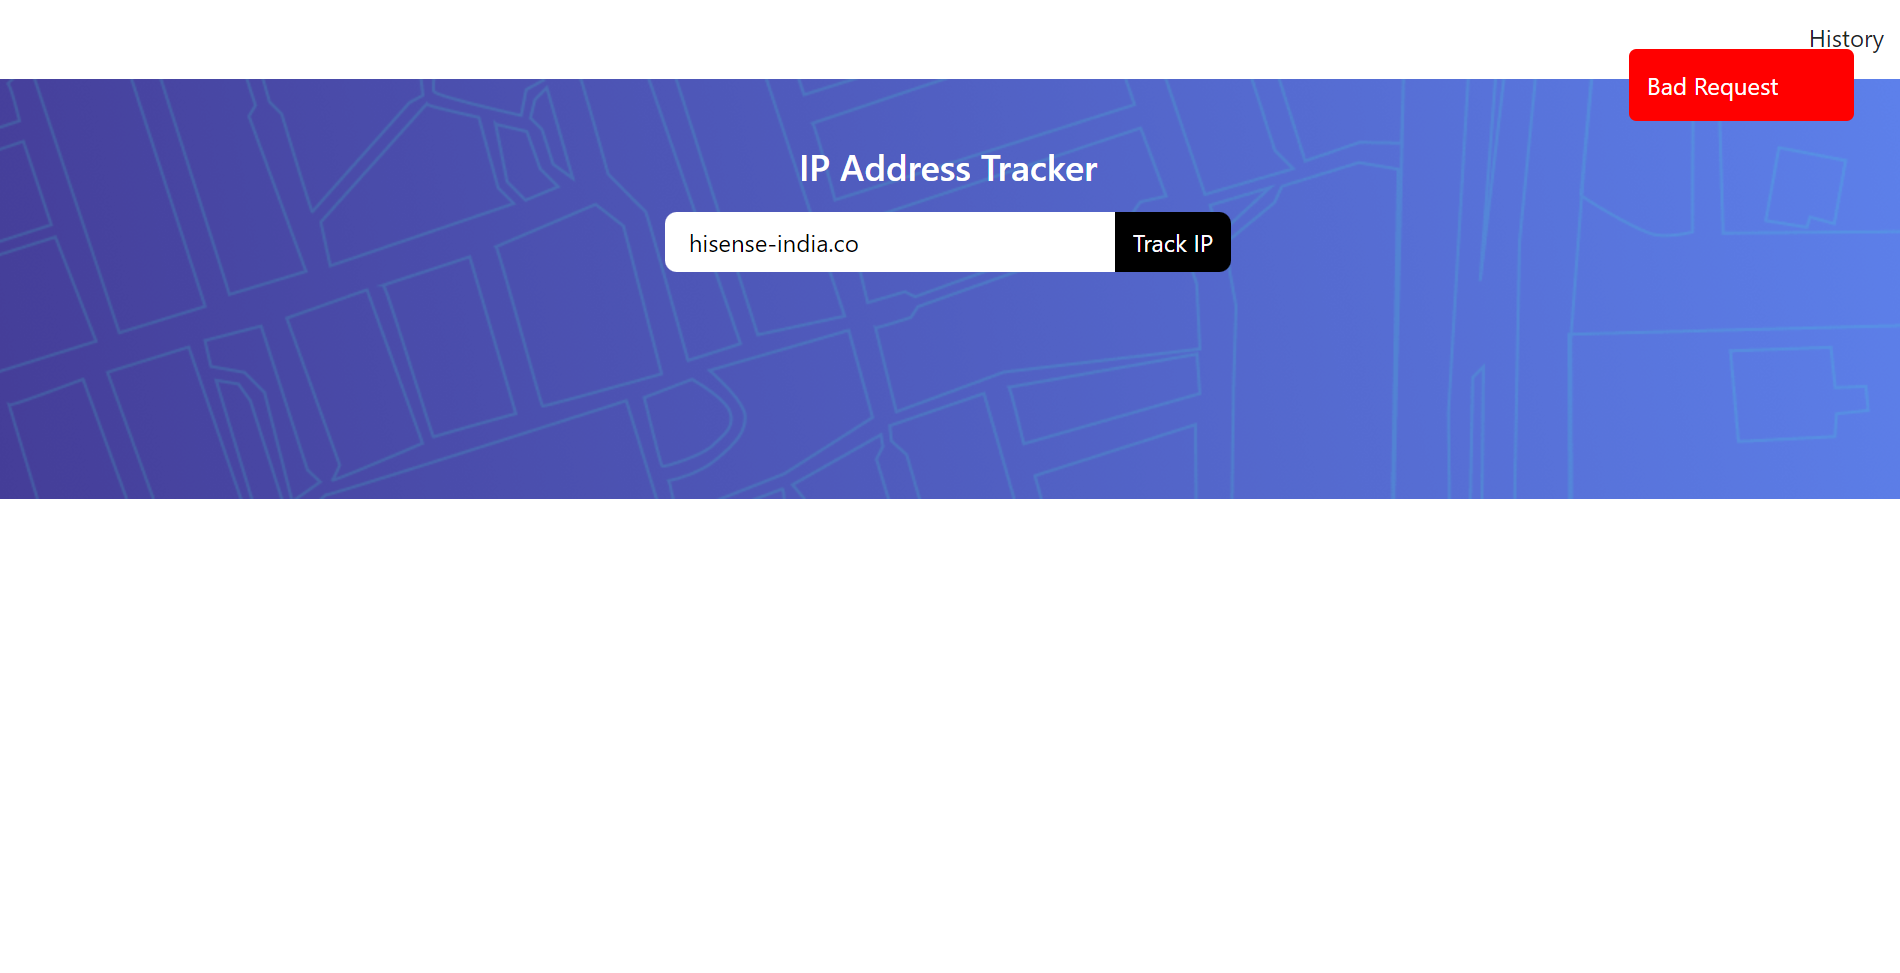
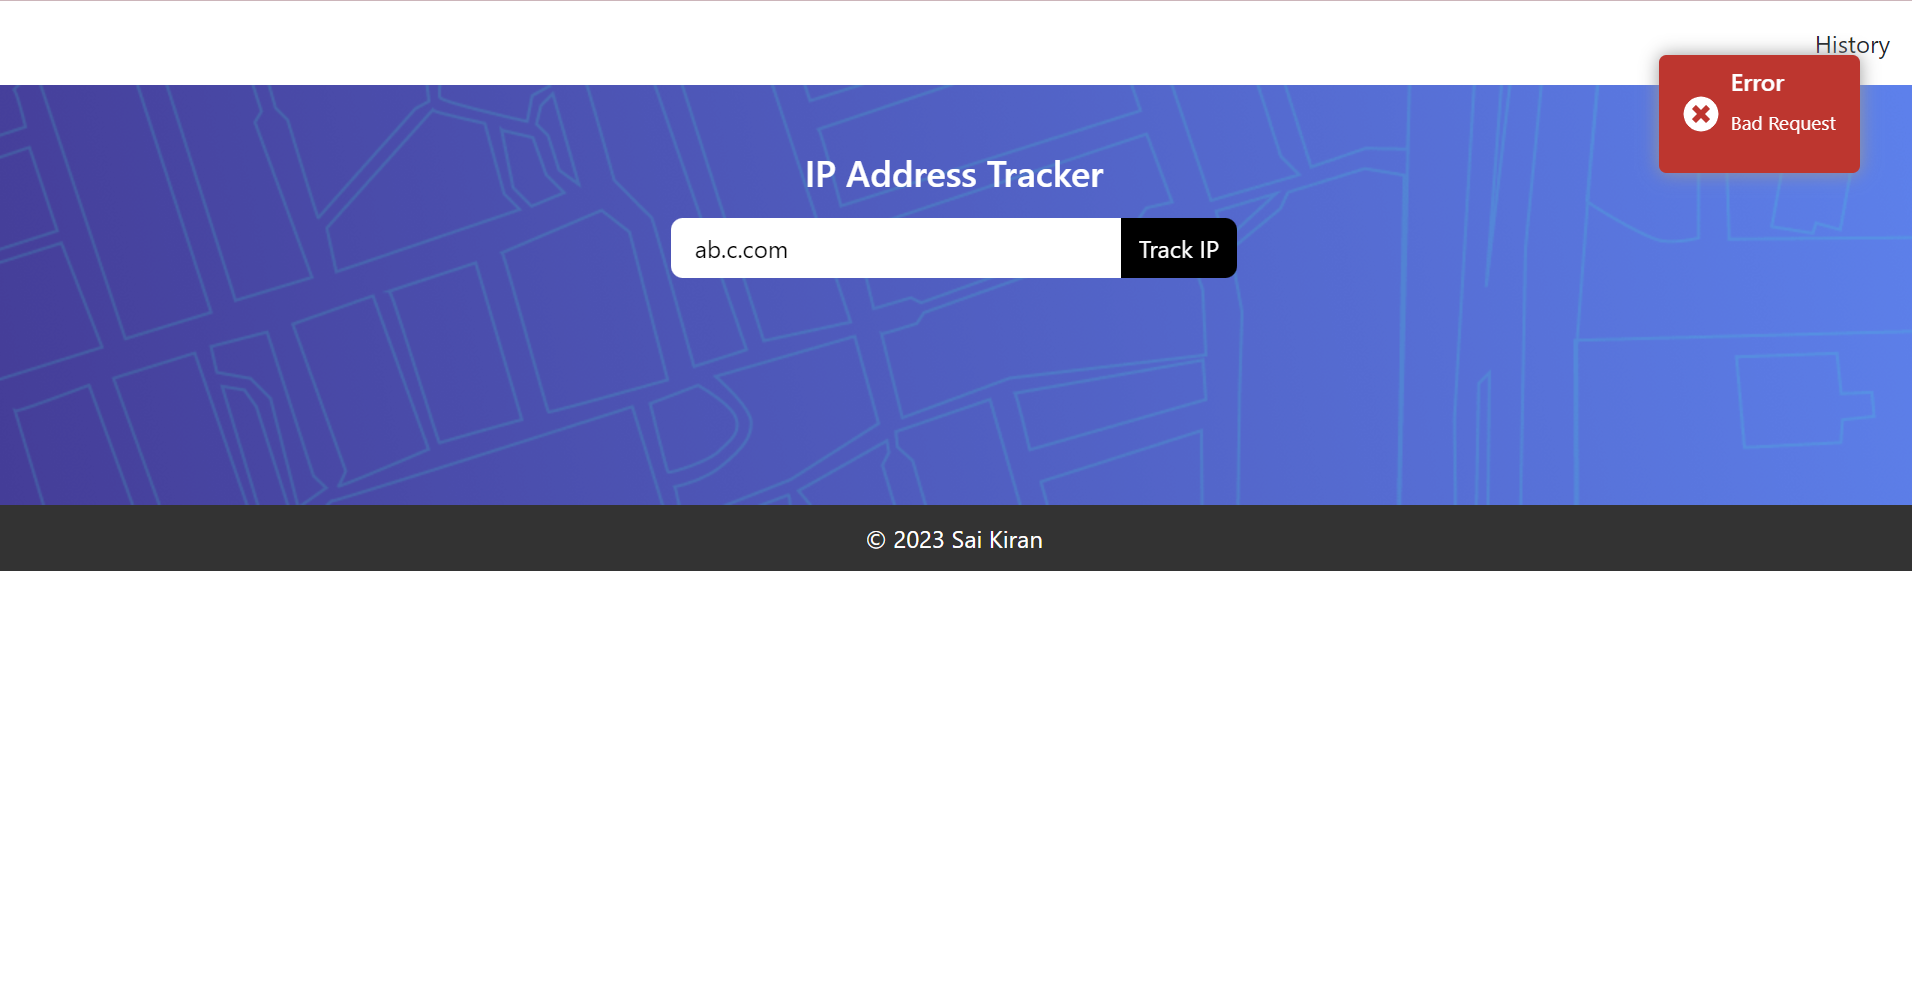
improvements

diff --git a/styles.css b/styles.css
@@ -140,6 +140,10 @@ button.close {
     background: none;
 }
 
+.toast-close {
+    background-image: url(./assets/close.svg);
+}
+
 .f-24 {
     font-size: 24px;
 }
@@ -150,27 +154,45 @@ button.close {
 
 .history-modal-body {
     display: flex;
-    flex-direction: column;
+    flex-wrap: wrap;
     gap: 8px;
     padding: 16px;
-    align-items: flex-start;
+    align-items: center;
+    justify-content: center;
 }
 
 /* Add some basic styling for the toast container */
-#toast-container .toaster {
+#toaster-container {
     position: fixed;
     top: 36px;
     right: 36px;
-    color: #fff;
-    padding: 10px;
+    background: #bd362f;
     border-radius: 5px;
-    min-width: 150px;
+    padding: 8px 16px;
+    color: #fff;
+    display: flex;
+    align-items: center;
+    gap: 8px;
+    box-shadow: 0 0 12px #999;
+    transition: opacity 1s ease-in-out;
+    opacity: 0;
 }
 
-#toast-container .toaster.error {
-    background-color: red;
-    color: white;
+#toaster-container h2{
+    font-size: 1rem;
 }
+#toaster-container p{
+    font-size: 0.8rem;
+}
+#toaster-container .toaster-icon{
+    background-image: url(./assets/close.svg);
+    background-size: cover;
+    background-repeat: no-repeat;
+    width: 24px;
+    height: 24px;
+}
+
+
 
 footer {
     background-color: #333;
@@ -178,6 +200,47 @@ footer {
     text-align: center;
     padding: 10px;
     width: 100%;
+}
+
+
+.card {
+    background-color: #fff;
+    border-radius: 8px;
+    box-shadow: 0 4px 8px rgba(0, 0, 0, 0.1);
+    overflow: hidden;
+    width: 300px;
+}
+
+.card-content {
+    padding: 20px;
+}
+
+.card-title {
+    font-size: 1.5rem;
+    margin-bottom: 10px;
+    color: #333;
+}
+
+.card-description {
+    font-size: 1rem;
+    color: #666;
+}
+
+.card-link {
+    display: block;
+    margin-top: 15px;
+    padding: 10px;
+    text-align: center;
+    background-color: #3498db;
+    color: #fff;
+    text-decoration: none;
+    border-radius: 4px;
+    transition: background-color 0.3s ease;
+    cursor: pointer;
+}
+
+.card-link:hover {
+    background-color: #2980b9;
 }
 
 @media screen and (max-width: 768px) {

diff --git a/scripts/dom.js b/scripts/dom.js
@@ -12,11 +12,12 @@ const loaderOverlay = document.querySelector('#loader-overlay');
 submitBtn.addEventListener('click', (event) => {
     event.preventDefault();
     inputEleDom.value = inputEleDom.value.trim()
-    const value = inputEleDom.value;
+    let value = inputEleDom.value;
     inputEleDom.classList.remove('error');
     if (ipRegex.test(value)) {
         fetchIpData(`ipAddress=${value}`, value);
     } else if (domainRegex.test(value)) {
+        value = value.replace(/^https?:\/\//, '');
         fetchIpData(`domain=${value}`, value);
     } else {
         validationResult.textContent = "Please enter a valid IP address or domain.";
@@ -34,17 +35,33 @@ historyLinkRef.addEventListener('click', (event) => {
 
     if (historyData && historyData.length) {
         historyData.forEach((obj) => {
+            const cardCt = document.createElement('div');
+            cardCt.classList.add('card');
+
+            const cardContent = document.createElement('div');
+            cardCt.classList.add('card-content');
+
+            cardCt.appendChild(cardContent);
+
+            const cardDesc = document.createElement('div');
+            cardCt.classList.add('card-description');
+
+            cardContent.appendChild(cardDesc);
+
             const historyLink = document.createElement('a');
-            historyLink.classList.add('history-link');
+            historyLink.classList.add('card-link');
+            cardContent.appendChild(historyLink);
+
             const [key, value] = Object.entries(obj)[0];
-            historyLink.textContent = key;
+            cardDesc.textContent = key;
+            historyLink.textContent = 'Get Current IP details';
             historyLink.setAttribute('data-dismiss', 'modal')
             historyLink.addEventListener('click', (event) => {
                 inputEleDom.value = key;
                 inputEleDom.dispatchEvent(new Event('input'));
                 submitBtn.click();
             })
-            historyModalBodyRef.appendChild(historyLink);
+            historyModalBodyRef.appendChild(cardCt);
         })
     }
 })

diff --git a/index.html b/index.html
@@ -58,7 +58,7 @@
         <!-- Modal -->
         <div class="modal fade" id="HistoryModal" tabindex="-1" role="dialog" aria-labelledby="HistoruModalLabel"
             aria-hidden="true">
-            <div class="modal-dialog" role="document">
+            <div class="modal-dialog modal-lg" role="document">
                 <div class="modal-content">
                     <div class="modal-header">
                         <h5 class="modal-title" id="HistoruModalLabel">History</h5>
@@ -67,7 +67,6 @@
                         </button>
                     </div>
                     <div class="history-modal-body" id="history-modal-body">
-
                     </div>
                     <div class="modal-footer">
                         <button type="button" class="btn btn-secondary" data-dismiss="modal">Close</button>
@@ -77,7 +76,14 @@
         </div>
 
         <!-- The toast container -->
-        <div id="toast-container"></div>
+        <!-- <div id="toast-container"></div> -->
+        <div id="toaster-container">
+            <div class="toaster-icon"></div>
+            <div class="toaster-content">
+                <h2 id="toaster-heading" class="toaster-heading"></h2>
+                <p id="toaster-message" class="toaster-message"></p>
+            </div>
+        </div>
     </main>
     <footer>
         <div>&copy; 2023 Sai Kiran</div>

diff --git a/scripts/helper-function.js b/scripts/helper-function.js
@@ -67,24 +67,19 @@ function renderMap(latLng) {
 
 function showToast(text, className) {
     // Get the toast container
-    let toastContainer = document.getElementById('toast-container');
+    let toastContainer = document.getElementById('toaster-container');
+    let toastHeading = document.getElementById('toaster-heading');
+    let toastMessage = document.getElementById('toaster-message');
 
-    // Create a new toast element
-    let toast = document.createElement('div');
-    toast.className = `toaster  ${className}`;
-    toast.textContent = text;
-
-    // Append the toast to the container
-    toastContainer.appendChild(toast);
+    toastHeading.textContent = 'Error';
+    toastMessage.textContent = text;
 
     // Display the toast
-    toastContainer.style.display = 'block';
+    toastContainer.style.opacity = '1';
 
     // Hide the toast after a delay (e.g., 3 seconds)
     setTimeout(function () {
-        toastContainer.style.display = 'none';
-        // Remove the toast element from the container
-        toastContainer.removeChild(toast);
+        toastContainer.style.opacity = '0';
     }, 3000);
 }
 

diff --git a/scripts/constants.js b/scripts/constants.js
@@ -1,4 +1,4 @@
 const ipRegex = /^(\d{1,3}\.){3}\d{1,3}$/;
-const domainRegex = /^[a-zA-Z0-9.-]+\.[a-zA-Z]{2,}$/;
+const domainRegex = /^(https?:\/\/)?(?:[a-zA-Z0-9.-]+|\d{1,3}\.\d{1,3}\.\d{1,3}\.\d{1,3})$/;
 const geoIpBaseUrl = 'https://geo.ipify.org/api/v2/country,city,vpn?apiKey=at_rWCwhOz8XFt6RpC7s5XZe06EpgLh1&';
 const localKeyForHistory = 'history';
